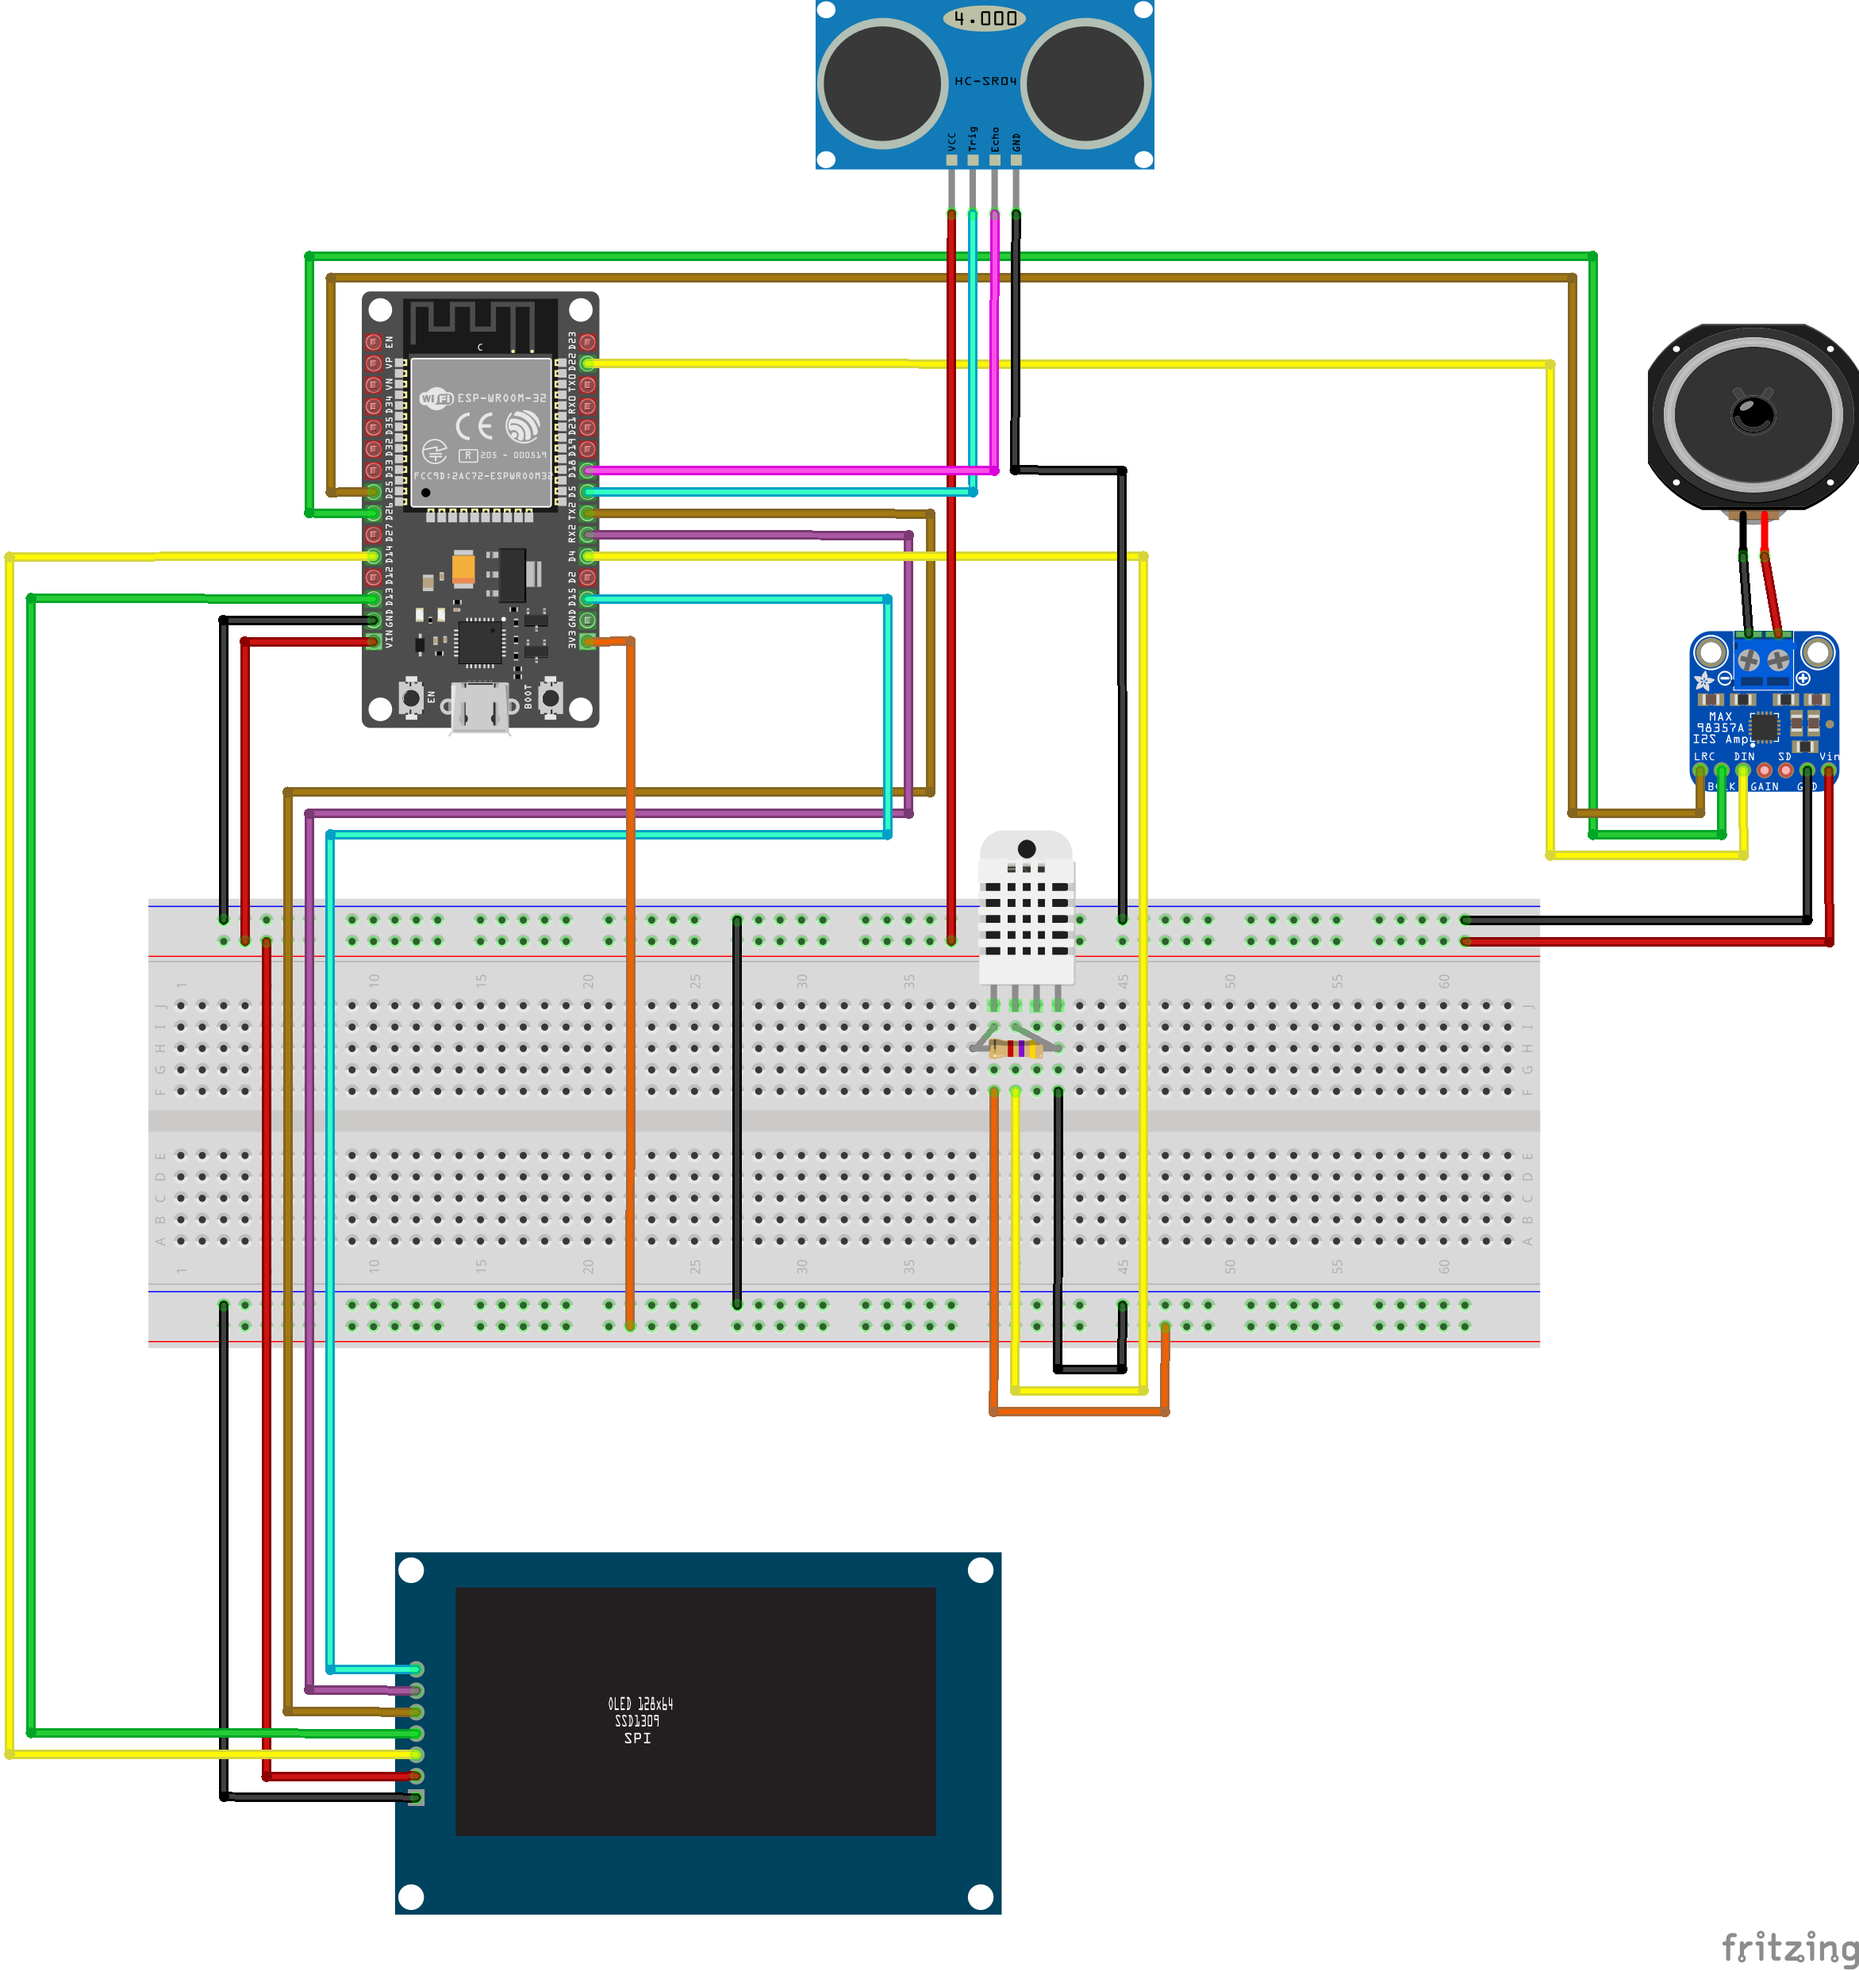
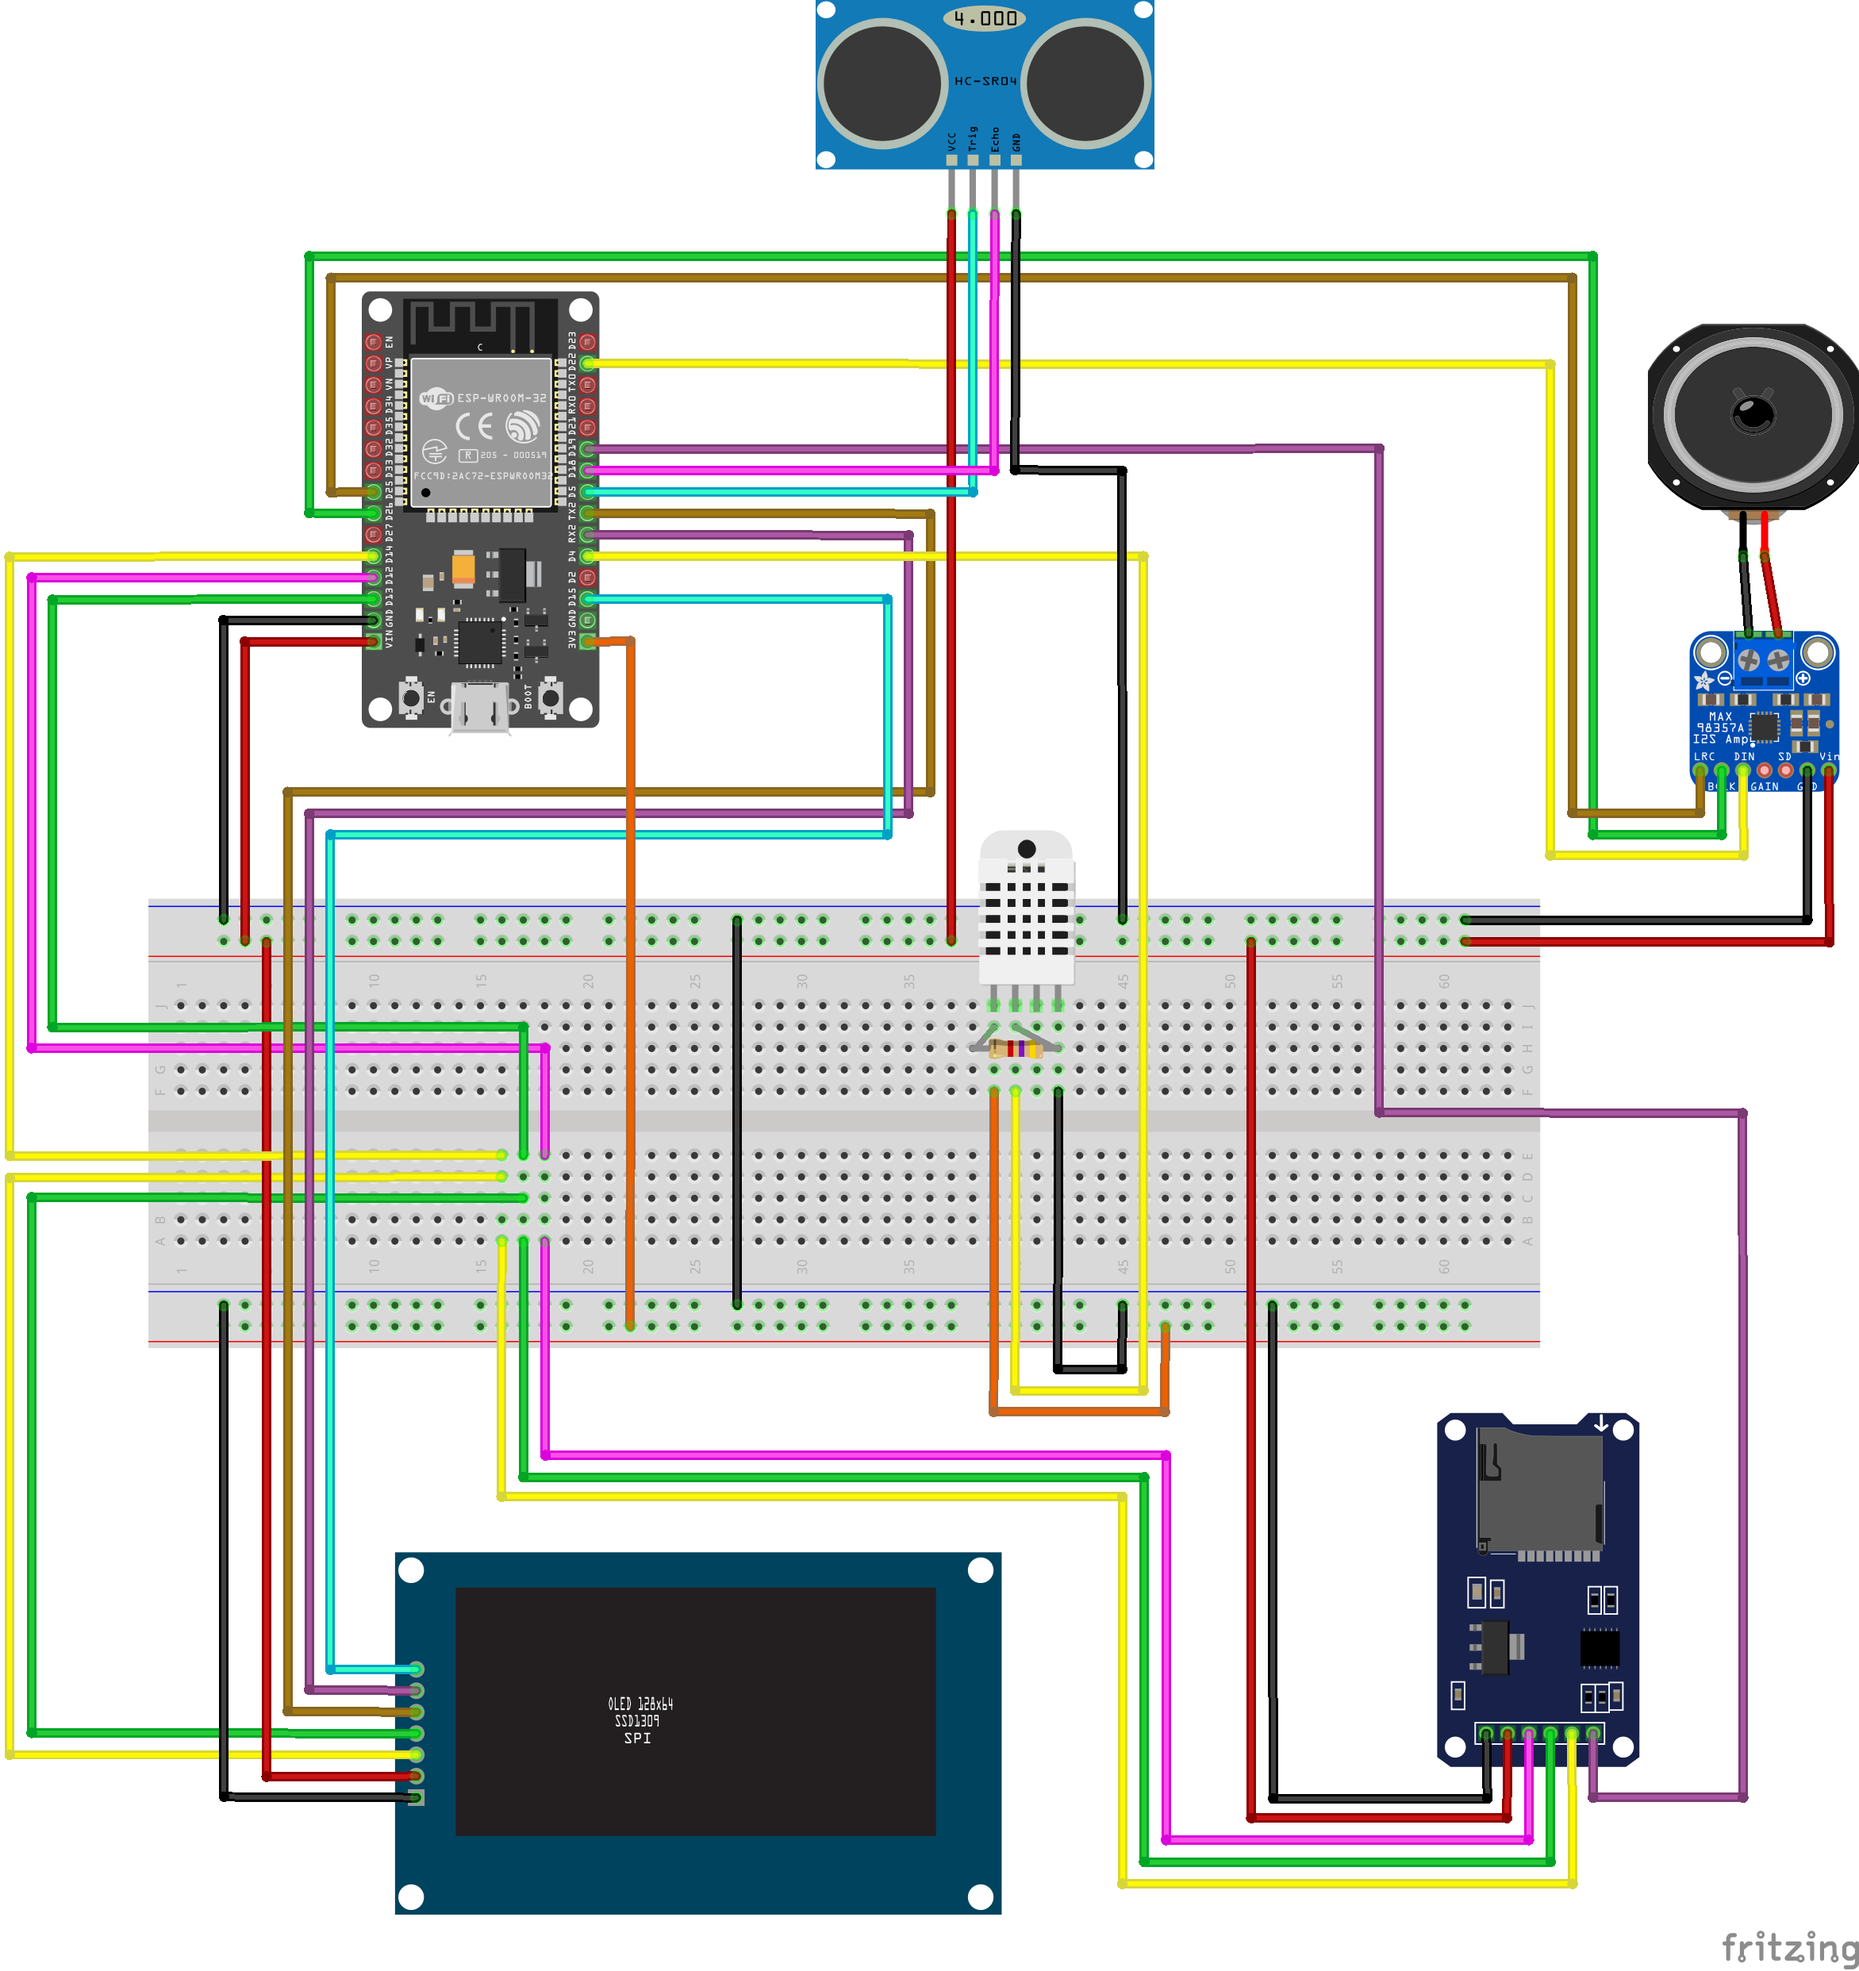
add SD card module

Changed region(s): [[0.0, 0.279, 0.9347, 0.961], [0.3116, 0.217, 0.7478, 0.558], [0.7478, 0.558, 0.9659, 0.899]]

diff --git a/readme.md b/readme.md
@@ -77,6 +77,17 @@ You can put this device in your bedroom and you won't be disturbed by the light 
 | GND            | GND             |
 | Vin            | Vin (5V)        |
 
+### SD Card Module
+
+| Pin on Sensor | description | Pin on ESP32 |
+| ------------- | ----------- | ------------ |
+| GND           |             | GND          |
+| VCC           |             | VIN (5V)     |
+| MISO          | SPI         | GPIO 12      |
+| MOSI/SDA      | SPI         | GPIO 13      |
+| SCK/SCL       | SPI         | GPIO 14      |
+| CS            | SPI         | GPIO 19      |
+
 ## Timezone configuration
 
 First change variable `timeZone` to your timezone. See [timezone list](https://github.com/nayarsystems/posix_tz_db/blob/master/zones.csv) for the correct value.
